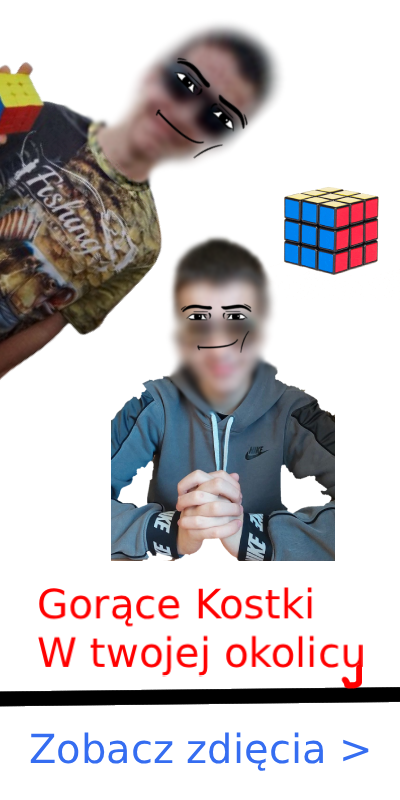
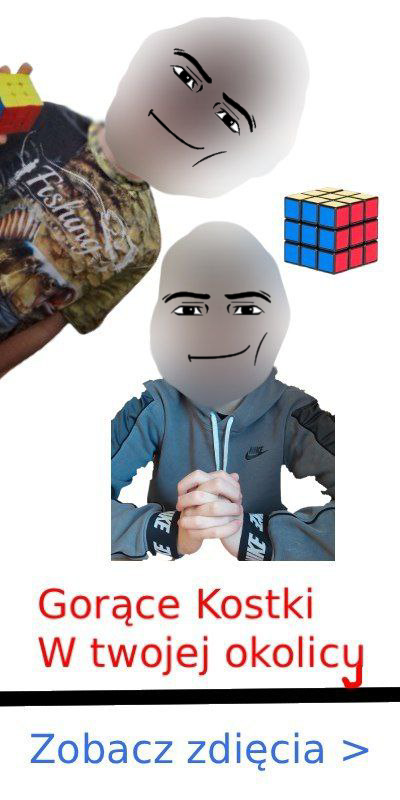
zmiana reklamy gorących kostek
z lewej na prawo i bardziej zblurowane

diff --git a/index.html b/index.html
@@ -42,7 +42,7 @@ wyrobu betonu.</div>
     </div>
     <image src="https://img.joemonster.org/mg/albums/062025/main_36trzeba_si_dostosowa_.jpg" width="400" height="300"></image>
     <image src="https://png.pngtree.com/png-clipart/20210913/ourmid/pngtree-download-logo-arabic-button-png-image_3927373.jpg" width="380" height="201" onclick="location.href='https://gog-games.to/'"></image>
-    <div align="left"> 
+    <div align="right"> 
     <img src="hotkostka/hotkostka.png" alt="Gorące Kostki w twojej okolicy!" width="200" height="400" onclick="location.href='hotkostka/hotkostk.html'">
     </div>
     <script src="src/index.js"></script>
